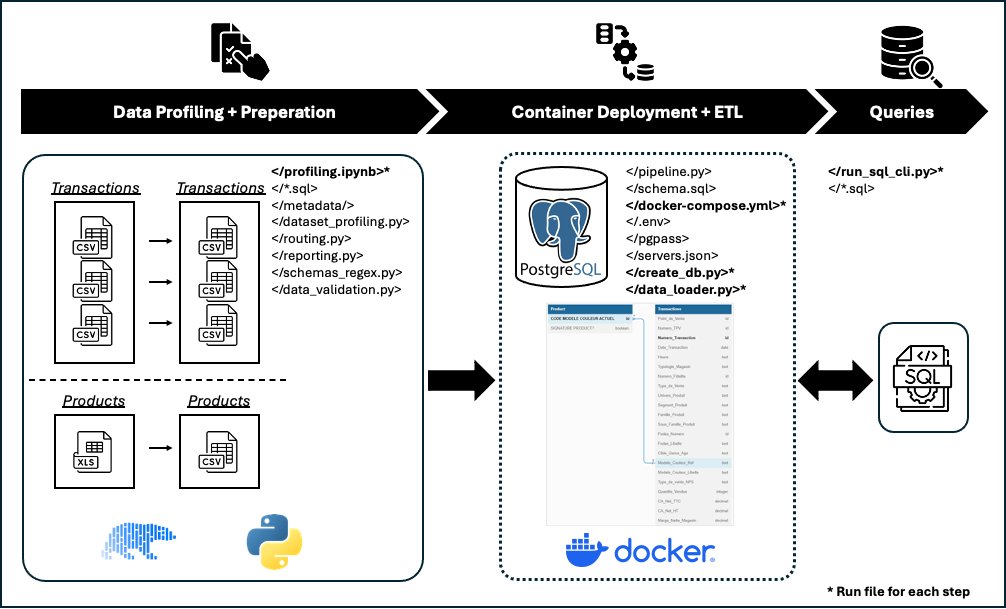
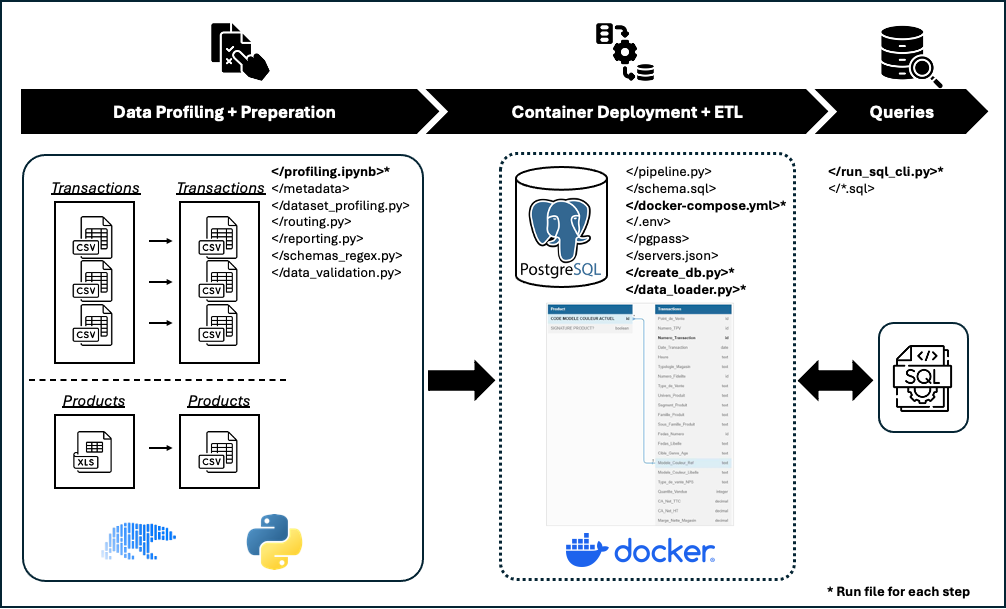
Refined Documentation

Changed region(s): [[0.2773, 0.2808, 0.4006, 0.4992]]

diff --git a/README.md b/README.md
@@ -20,19 +20,24 @@ The project is organized into the following main directories:
 data-engineering-challenge/
 ├── src/
 │   ├── assets/
+│   │   ├── analysis/...
 │   │   ├── dataset/
-│   │   │   ├── analysis/...
 │   │   │   ├── raw/
 │   │   │   │   ├── products/...          <--- place raw product (.xlsx) files here
 │   │   │   │   └── transactions/...      <--- place raw transaction (.csv) files here
 │   │   │   └── processed/
 │   │   │       ├── products/...
 │   │   │       └── transactions/...
-│   │   └── images/...
+│   │   ├── images/...
+│   │   └── metadata/...
 │   ├── db/...
 │   │   └── sql/...
 │   ├── etl/
 │   │   ├── ingest/...
+│   │   │   ├── create_db.py
+│   │   │   ├── data_loader.py
+│   │   │   ├── run_sql_cli.py
+│   │   │   └── ...
 │   │   └── tables/...
 │   ├── sql/
 │   │   └── queries/...
